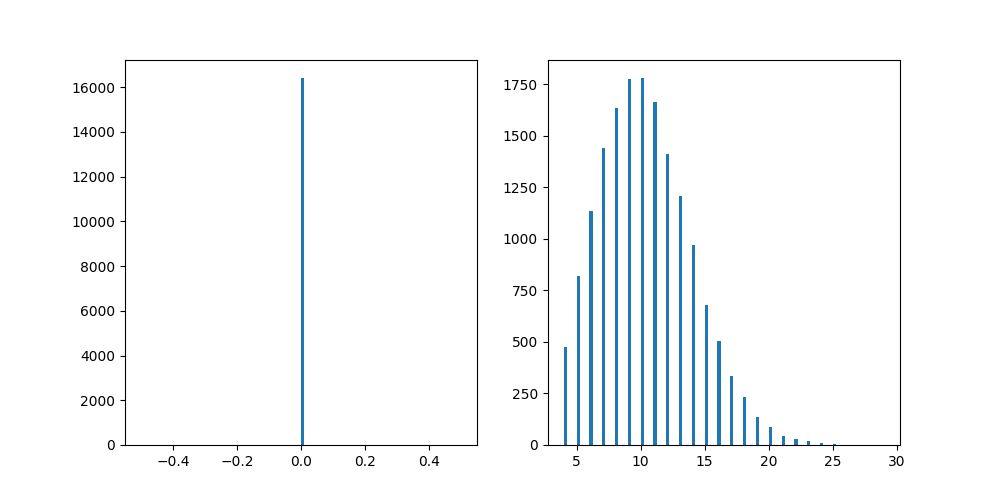
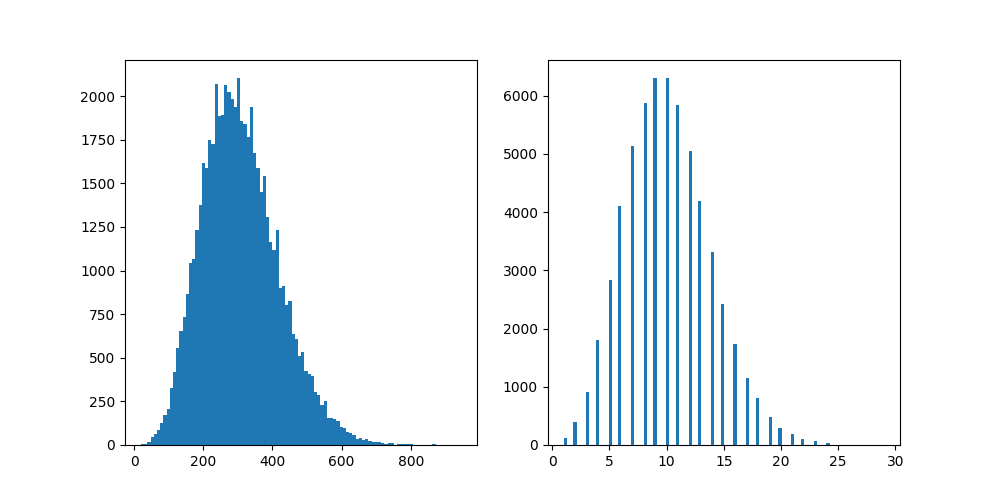
transformer training and training with curated events

diff --git a/best_model_prediction_events.py b/best_model_prediction_events.py
@@ -3,6 +3,41 @@ from loss_functions import *
 
 import h5py
 
+def concat_data(data_loader):
+    pfs = torch.empty((0, 1000, 15))
+    vtxs = torch.empty((0, 200, 5))
+    truth = torch.empty((0, 1000))
+    z = torch.empty((0, 1000))
+    counter = 0
+    for data in tqdm(data_loader):
+        counter += 1
+        data = process_data(data)
+        pfs_event = torch.cat((data.x_pfc, torch.zeros((1000 - data.x_pfc.shape[0], data.x_pfc.shape[1]))), dim=0).unsqueeze(0)
+        vtx_event = torch.cat((data.x_vtx, torch.zeros((200 - data.x_vtx.shape[0], data.x_vtx.shape[1]))), dim=0).unsqueeze(0)
+        truth_event = torch.cat((data.truth, torch.zeros((1000 - data.truth.shape[0],))), dim=0).unsqueeze(0)
+        z_event = torch.cat((data.y, torch.zeros((1000 - data.y.shape[0],))), dim=0).unsqueeze(0)
+        pfs = torch.cat((pfs, pfs_event), dim=0)
+        vtxs = torch.cat((vtxs, vtx_event), dim=0)
+        truth = torch.cat((truth, truth_event), dim=0)
+        z = torch.cat((z, z_event), dim=0)
+        if counter % 1000 == 0 or counter == len(data_loader):
+            print("Saving data")
+            save_path = home_dir+ 'all_data3/raw/samples_v0_dijet_'+str(50 + counter//1000)+".h5"
+            file_out = h5py.File(save_path , "w")
+            file_out.create_dataset("pfs", data=pfs.numpy())
+            file_out.create_dataset("vtx", data=vtxs.numpy())
+            file_out.create_dataset("truth", data=truth.numpy())
+            file_out.create_dataset("z", data=z.numpy())
+            file_out.create_dataset("n", data=pfs.shape[0], dtype='i8')
+            file_out.close()
+            print("Saved data to {}".format(save_path))
+            print("Processed {} events".format(counter))
+            pfs = torch.empty((0, 1000, 15))
+            vtxs = torch.empty((0, 200, 5))
+            truth = torch.empty((0, 1000))
+            z = torch.empty((0, 1000))
+
+
 def choose_nice_events(net, data_loader, loss_cut = 0.88):
     device = torch.device("cuda" if torch.cuda.is_available() else "cpu")
     cpu = torch.device("cpu")
@@ -157,9 +192,14 @@ def save_event_predictions(net, test_loader, save_name):
     print("Saved data to results/{}.csv".format(save_name))
     return df
 
+if __name__ == '__main__':
+    all_data = UPuppiV0(home_dir+'all_data2/')
+    data_loader = DataLoader(all_data, batch_size=1, shuffle=False)
+    concat_data(data_loader)
 
 
-if __name__ == "__main__":
+
+if __name__ == "__main__" and False:
     save = True
     process = False
     epoch_to_load = 99

diff --git a/analyze_data.py b/analyze_data.py
@@ -1,22 +1,28 @@
 from helper_functions import *
+# from dataset_graph_loader import UPuppiV0
 
 # seed the random number generator
 torch.manual_seed(0)
 
-
-data_train = UPuppiV0(home_dir + 'train5/')
+data_train = UPuppiV0(home_dir + "all_data/")
+# data_train = UPuppiV0(home_dir + 'train5/')
 data_test = UPuppiV0(home_dir + 'test5/')
 train_loader = DataLoader(data_train, batch_size=1, shuffle=True, follow_batch=['x_pfc', 'x_vtx'])
 test_loader = DataLoader(data_test, batch_size=1, shuffle=True, follow_batch=['x_pfc', 'x_vtx'])
 
-data_params = {'event_num':[],'pfcs':[], 'vtxs':[], 'charges':[], 'neutrals':[], 'pileups':[]}
+data_params = {'event_num':[],'pfcs':[], 'vtxs':[], 'charges':[], 'neutrals':[], 'pileups':[], 'vtx_pt':[], 'vtx0_pt':[]}
 for counter, data in enumerate(tqdm(train_loader)):
+    # print(data.edge_index.shape)
+    if data.x_vtx.shape[0] == 0:
+        continue
     data_params['event_num'].append(counter)
     data_params['pfcs'].append(data.x_pfc.shape[0])
     data_params['vtxs'].append(data.x_vtx.shape[0])
     data_params['charges'].append((data.x_pfc[:,-2] != 0).sum().item())
     data_params['neutrals'].append((data.x_pfc[:,-2] == 0).sum().item())
     data_params['pileups'].append((data.truth == -1).sum().item())
+    data_params['vtx_pt'].append(data.x_vtx[:, -1].sum().item())
+    data_params['vtx0_pt'].append(data.x_vtx[0, -1].item())
 
 df = pd.DataFrame(data_params)
 print(df.describe())
@@ -25,6 +31,18 @@ print(df.head())
 fig, ax = plt.subplots(1,2, figsize=(10,5))
 ax[0].hist(df['pfcs'], bins=100)
 ax[1].hist(df['vtxs'], bins=100)
-plt.savefig(home_dir + 'results/pfc_vtx_hist_2.png')
+plt.savefig(home_dir + 'results/pfc_vtx_hist_2.png', bbox_inches='tight')
+plt.close()
+
+# plot histogram of vtx pt
+fig, ax = plt.subplots(1,1, figsize=(10,5))
+ax.hist(df['vtx_pt'], bins=100)
+plt.savefig(home_dir + 'results/vtx_pt_hist_2.png', bbox_inches='tight')
+plt.close()
+
+# plot histogram of vtx0 pt
+fig, ax = plt.subplots(1,1, figsize=(10,5))
+ax.hist(df['vtx0_pt'], bins=100)
+plt.savefig(home_dir + 'results/vtx0_pt_hist_2.png', bbox_inches='tight')
 plt.close()
 

diff --git a/dataset_graph_loader.py b/dataset_graph_loader.py
@@ -1,5 +1,6 @@
 import os.path as osp
 import glob
+from time import sleep
 
 import h5py
 import numpy as np
@@ -88,13 +89,26 @@ class UPuppiV0(Dataset):
             truth = torch.from_numpy(f['truth'][idx_in_file,:Npfc][pfSelection]).int()
             # connect edges between all same truth
             edges = np.zeros((2, 0), dtype=np.int64)
-            for i in range(Npfc):
-                for j in range(i+1, Npfc):
-                    edges = np.concatenate((edges, np.array([[i], [j]])), axis=1)
+            # for i in range(Npfc):
+            #     for j in range(i+1, Npfc):
+            #         edges = np.concatenate((edges, np.array([[i], [j]])), axis=1)
+            # choose edges randomly
+            # if Npfc*(Npfc-1)//2 < 11000:
+            if True:
+                for i in range(Npfc):
+                    for j in range(i+1, Npfc):
+                        edges = np.concatenate((edges, np.array([[i], [j]])), axis=1)
+            else:
+                edges1 = np.random.choice(Npfc, size=(1, int(10000)))
+                edges2 = np.random.choice(Npfc, size=(1, int(10000)))
+                edges = np.concatenate((edges1, edges2), axis=0)
+                edges = np.unique(edges, axis=1)
+                edges = edges[:,edges[0] != edges[1]]
             edges = torch.from_numpy(edges).long()
             # make it undirected
             edges = to_undirected(edges)
-
+            # remove self-loops
+            # remove duplicate edges
 
             # gen info
             #gen = f['geninfo']

diff --git a/data_process.py b/data_process.py
@@ -26,9 +26,9 @@ for fileid in range(1, 100):
 #     else:
     try:
         # file = h5py.File('/work/submit/bmaier/upuppi/data/v0_z_regression_pu30/test/raw/samples_v0_dijet_'+str(fileid)+".h5", "r")
-        file = h5py.File(home_dir + 'test4/raw/samples_v0_dijet_'+str(fileid)+".h5", "r")
+        file = h5py.File(home_dir + 'all_data/raw/samples_v0_dijet_'+str(fileid)+".h5", "r")
         # file_out = h5py.File(home_dir + 'test2/raw/samples_v0_dijet_'+str(fileid)+".h5", "w")
-        file_out = h5py.File(home_dir + 'test9/raw/samples_v0_dijet_'+str(fileid)+".h5", "w")
+        file_out = h5py.File(home_dir + 'all_data2/raw/samples_v0_dijet_'+str(fileid)+".h5", "w")
     except FileNotFoundError or OSError:
         # print the error
         print("fileid:", fileid)
@@ -53,8 +53,9 @@ for fileid in range(1, 100):
 
         # for each event, get the max truth value
         max_truth = truth.max(axis=1)
+        vtx_pt = vtx[:, 0, -1]
         # discard events with max truth < 2
-        nice_event_idx = (max_truth >= 2)
+        nice_event_idx = ((max_truth >= 2) & (vtx_pt >= 120))
         pfs = pfs[nice_event_idx]
         vtx = vtx[nice_event_idx]
         truth = truth[nice_event_idx]

diff --git a/load_pred_save.py b/load_pred_save.py
@@ -1,8 +1,9 @@
 from helper_functions import *
+from dataset_graph_loader import UPuppiV0
 
-BATCHSIZE = 32
+BATCHSIZE = 4
 if __name__ == "__main__":
-    epoch_to_load = 19
+    epoch_to_load = 0
     model_name = "DynamicPointTransformer"
     # model_name = 'modelv2_analysis'
     model_name = 'modelv3_first_try'
@@ -20,11 +21,12 @@ if __name__ == "__main__":
     # model_name = 'deep_multiclass_puppi'
     model_name = 'deep_multiclass_2vtx_MET'
     model_name = 'cheat_model_try2'
+    model_name = 'new_transformer_try1'
 
 
     net = get_neural_net(model_name)
 
-    data_test = UPuppiV0(home_dir + "test5/")
+    data_test = UPuppiV0(home_dir + "train8/")
     test_loader = DataLoader(data_test, batch_size=BATCHSIZE, shuffle=True,
                             follow_batch=['x_pfc', 'x_vtx'])
 

diff --git a/data_rearrange.py b/data_rearrange.py
@@ -12,10 +12,10 @@ with open('home_path.txt', 'r') as f:
 
 pop_top_vtx = True
 
-for fileid in range(1, 100):
+for fileid in range(1, 101):
     try:
-        file = h5py.File('/work/submit/bmaier/upuppi/data/v0_z_regression_pu30/test/raw/samples_v0_dijet_'+str(fileid)+".h5", "r")
-        file_out = h5py.File(home_dir + 'test6/raw/samples_v0_dijet_'+str(fileid)+".h5", "w")
+        file = h5py.File('/work/submit/bmaier/upuppi/data/v0_z_regression_pu30/samples_v0_dijet_'+str(fileid)+".h5", "r")
+        file_out = h5py.File(home_dir + 'all_data/raw/samples_v0_dijet_'+str(fileid)+".h5", "w")
     except FileNotFoundError or OSError:
         # print the error
         print("fileid:", fileid)

diff --git a/helper_functions.py b/helper_functions.py
@@ -247,7 +247,8 @@ def save_class_predictions(net, data_loader, save_name):
         data = process_data(data)
         data = data.to(device)
         with torch.no_grad():
-            scores_batch, pfc_emb, vtx_emb = net(data.x_pfc, data.x_vtx, data.x_pfc_batch, data.x_vtx_batch)
+            # scores_batch, pfc_emb, vtx_emb = net(data.x_pfc, data.x_vtx, data.x_pfc_batch, data.x_vtx_batch)
+            scores_batch = net(data.x_pfc, data.edge_index)
             vtx_classes = scores_batch.shape[1] - 1
             class_prob_batch = nn.Softmax(dim=1)(scores_batch)
             class_true_batch = process_truth(data.truth, vtx_classes).long()

diff --git a/multiclass_train_model.py b/multiclass_train_model.py
@@ -4,8 +4,8 @@ from loss_functions import *
 
 start_time = time.time()
 
-data_train = UPuppiV0(home_dir + 'train9/')
-data_test = UPuppiV0(home_dir + 'test9/')
+data_train = UPuppiV0(home_dir + 'all_data3/')
+data_test = UPuppiV0(home_dir + 'all_data3/')
 BATCHSIZE = 64
 
 # model_name = "multiclassifier_2_vtx_without_primary"
@@ -22,6 +22,7 @@ model_name = "deep_multiclass_MET_weight_5"
 model_name = "deep_multiclass_neg_emb_weight"
 model_name = "deep_high_eta_enc_try1"
 model_name = "multi_deep_more_features_try1"
+model_name = 'multi_deep_curated_data'
 
 vtx_classes = 1
 

diff --git a/transformer_train_model.py b/transformer_train_model.py
@@ -11,6 +11,7 @@ BATCHSIZE = 64
 
 model_name = 'new_transformer_try1'
 model_name = 'simple_transformer_try1'
+model_name = 'new_transformer_less_edges'
 
 vtx_classes = 1
 
